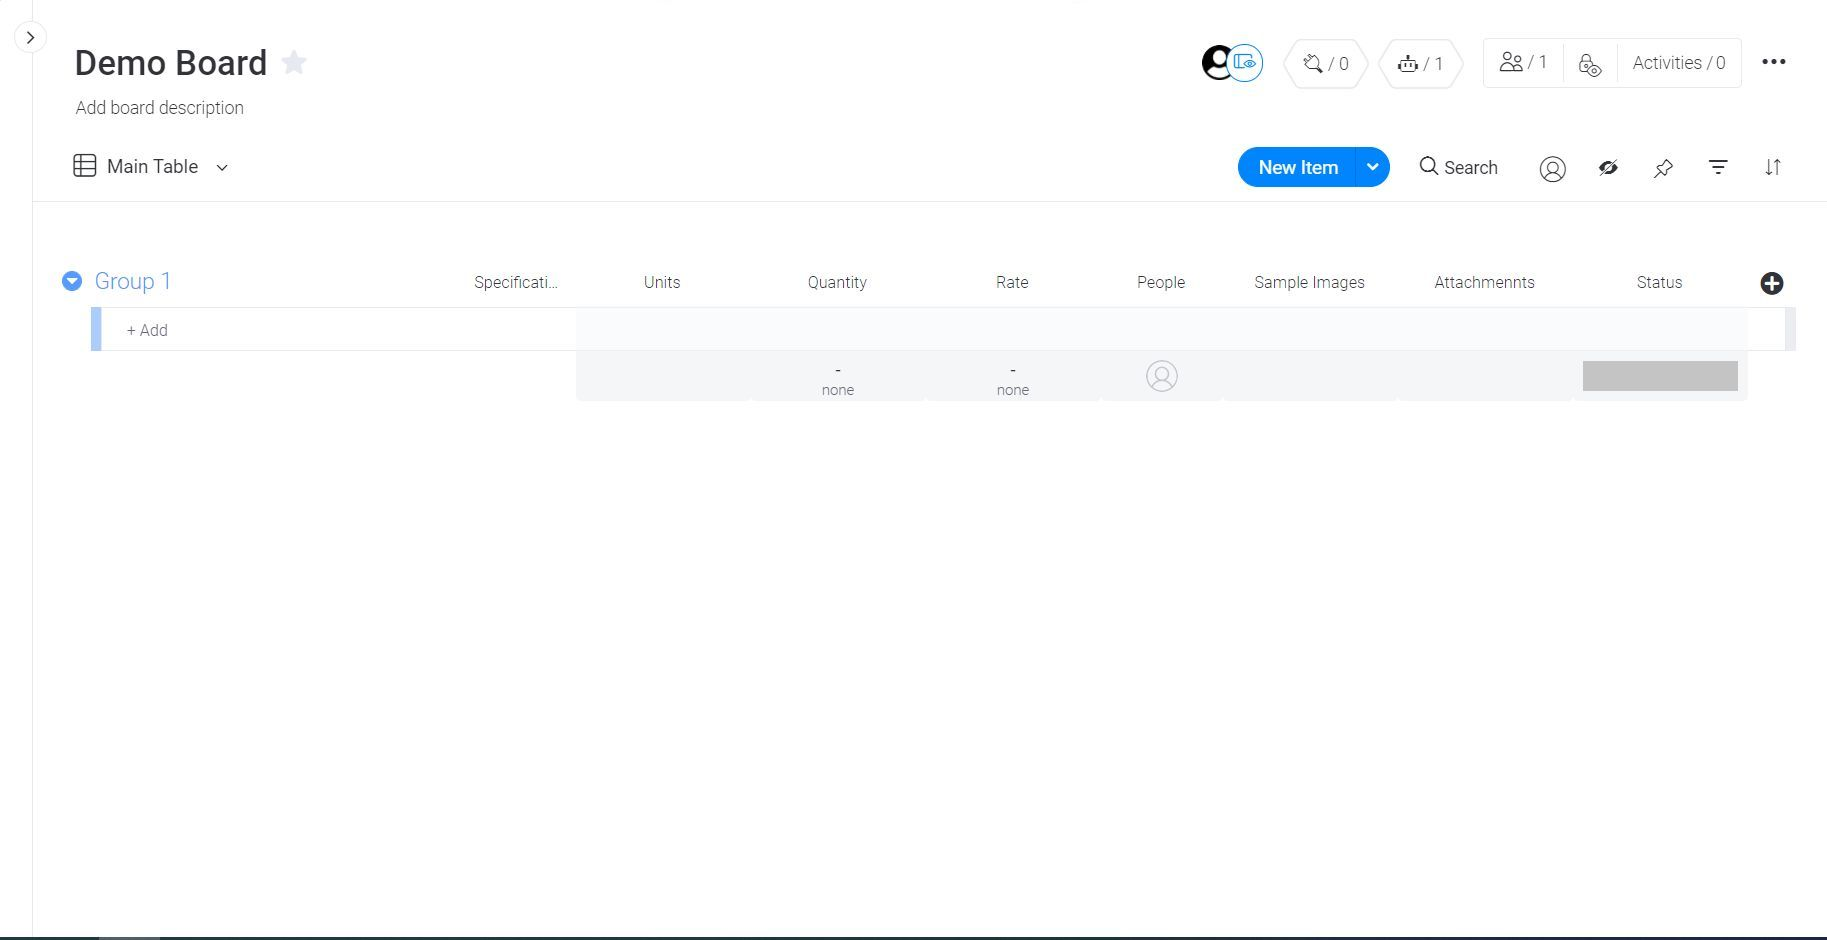
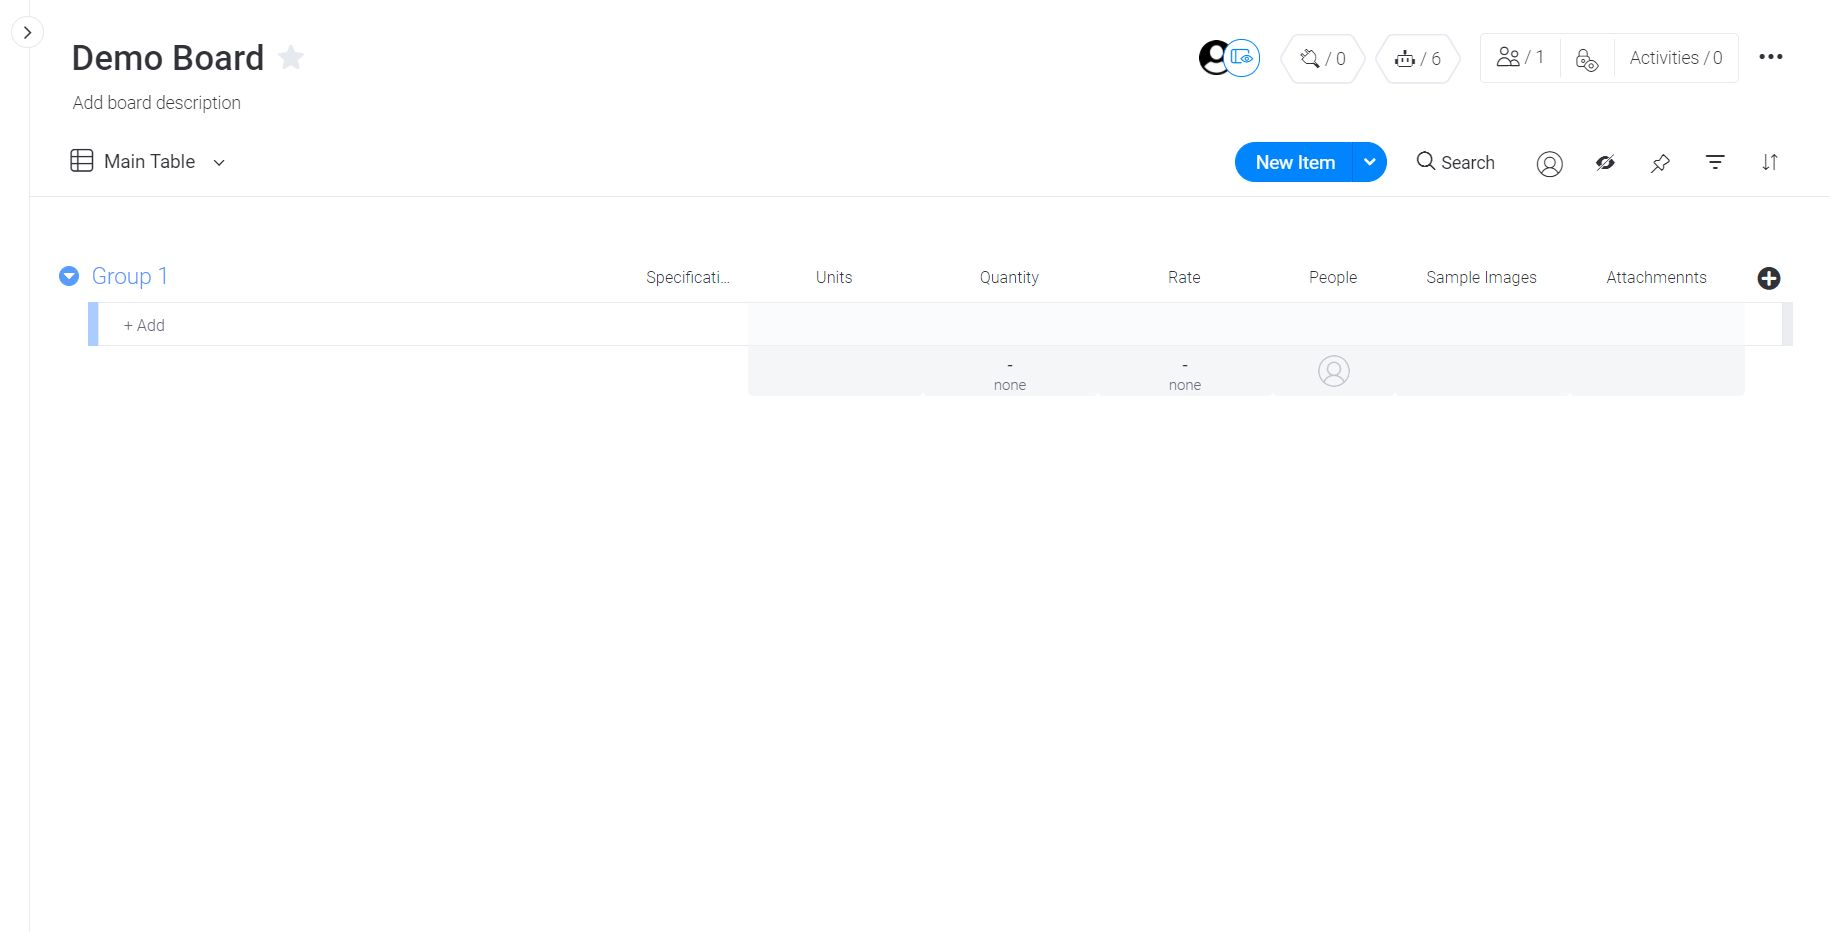
fix the board setup issues; add guide to setup board

diff --git a/src/components/MondayRequestBoardView.vue b/src/components/MondayRequestBoardView.vue
@@ -33,10 +33,6 @@
       <span style="flex: 1">
       </span>
       <span>
-        <md-tooltip md-delay="300">Learn how to use BidFriday.</md-tooltip>
-        <md-button target="_blank" href="/monday/setup-your-board">HELP</md-button>
-      </span>
-      <span>
         <md-tooltip md-delay="300">Connect your accounts to sync and share your requests and bids.</md-tooltip>
         <md-button target="_blank" :href="'https://auth.monday.com/oauth2/authorize?client_id=74f5d4a266dec72194a44f947d25ce70&redirect_uri=' + redirectUrl + '/monday/connect'">CONNECT</md-button>
       </span>
@@ -48,11 +44,16 @@
 
 
     <div v-if="hasMondayConnected" style="padding: 8px;">
+
+      <div v-if="tenderLineItems.length < 1">
+        <span class="md-title" style="color: #CCCCCC">No items on your board yet.</span>
+      </div>
+
+      <div v-else>
       <!-- Tender Items -->
       <div v-if="activeTab === 'tender'">
         <md-table>
           <md-table-row>
-            <md-table-head>Status</md-table-head>
             <md-table-head>Name</md-table-head>
             <md-table-head>Quantity</md-table-head>
             <md-table-head>Rate</md-table-head>
@@ -64,9 +65,8 @@
           </md-table-row>
 
           <md-table-row v-for="tli in tenderLineItems" :key="tli.id" @click="showBidSlotDetails(tli.bids, tli.tenderLineItem)">
-            <md-table-cell>{{ tli.status }}</md-table-cell>
             <md-table-cell @click="openItemCard(tli.id)">{{ tli.name }}</md-table-cell>
-            <md-table-cell>{{ tli.units }} {{ tli.quantity }}</md-table-cell>
+            <md-table-cell>{{ tli.quantity }} {{ tli.units }}</md-table-cell>
             <md-table-cell>{{ tli.rate | currency }}</md-table-cell>
             <md-table-cell>{{ tli.total | currency }}</md-table-cell>
             <md-table-cell>{{ tli.bids.latestBids ? tli.bids.latestBids.length : '-' }}</md-table-cell>
@@ -172,6 +172,8 @@
         </div>
         
       </div>
+      </div>
+
     </div>
 
     <div v-if="msgTitle !== null">
@@ -278,16 +280,20 @@ export default {
       let queryStr = `query { boards (ids: ${boardId}) { id name columns { id title } items { id name column_values { text value } } } }`;
       res = await this.monday.api(queryStr);
       this.currBoardData = res.data.boards[0];
+      let specsColIdx = this.currBoardData.columns.findIndex(c => c.title.toLowerCase() === 'specifications') - 1;
+      let unitsColIdx = this.currBoardData.columns.findIndex(c => c.title.toLowerCase() === 'units') - 1;
+      let qtyColIdx = this.currBoardData.columns.findIndex(c => c.title.toLowerCase() === 'quantity') - 1;
+      let rateColIdx = this.currBoardData.columns.findIndex(c => c.title.toLowerCase() === 'rate') - 1;
       this.tenderLineItems = this.currBoardData.items.map(row => {
         return {
           row: row,
           id: row.id,
           name: row.name,
-          status: row.column_values[8].text,
-          units: row.column_values[2].text,
-          quantity: row.column_values[1].text,
-          rate: row.column_values[3].text,
-          total: parseFloat(row.column_values[2].text) * parseFloat(row.column_values[3].text),
+          specifications: row.column_values[specsColIdx].text,
+          units: row.column_values[unitsColIdx].text,
+          quantity: row.column_values[qtyColIdx].text,
+          rate: row.column_values[rateColIdx].text,
+          total: parseFloat(row.column_values[qtyColIdx].text) * parseFloat(row.column_values[rateColIdx].text),
           bids: {},
           tenderLineItem: {}
         }

diff --git a/server/api.js b/server/api.js
@@ -126,6 +126,13 @@ router.post('/create-or-update-tender', [addUserToReq, authorizeUser], async (re
     tender = await tender.save();
   }
 
+  if (boardInfo.columns.length < 1) return res.json(tender);
+
+  let specsColIdx = boardInfo.columns.findIndex(c => c.title.toLowerCase() === 'specifications') - 1;
+  let unitsColIdx = boardInfo.columns.findIndex(c => c.title.toLowerCase() === 'units') - 1;
+  let qtyColIdx = boardInfo.columns.findIndex(c => c.title.toLowerCase() === 'quantity') - 1;
+  let rateColIdx = boardInfo.columns.findIndex(c => c.title.toLowerCase() === 'rate') - 1;
+
   // keep check of the existing slots and new ones so that the rest can be marked inactive
   let activeSlots = [];
   
@@ -165,16 +172,14 @@ router.post('/create-or-update-tender', [addUserToReq, authorizeUser], async (re
     let bidfridayUnits = latestTenderItemInSlot.units;
     let bidfridayQuantity = latestTenderItemInSlot.quantity;
     let bidfridayRate = latestTenderItemInSlot.rate;
-    let bidfridayStatus = latestTenderItemInSlot.status;
     let bidfridayImageData = latestTenderItemInSlot.sampleImages;
     let bidfridayAttachmentData = latestTenderItemInSlot.attachments;
 
     let mondayName = lineItem.name;
-    let mondaySpecifications = lineItem.column_values[0].text;
-    let mondayUnits = lineItem.column_values[1].text;
-    let mondayQuantity = parseFloat(lineItem.column_values[2].text);
-    let mondayRate = parseFloat(lineItem.column_values[3].text);
-    let mondayStatus = lineItem.column_values[8].text;
+    let mondaySpecifications = lineItem.column_values[specsColIdx].text;
+    let mondayUnits = lineItem.column_values[unitsColIdx].text;
+    let mondayQuantity = parseFloat(lineItem.column_values[qtyColIdx].text);
+    let mondayRate = parseFloat(lineItem.column_values[rateColIdx].text);
     let mondayImageData = JSON.stringify(lineItem.column_values[6]);
     let mondayAttachmentData = JSON.stringify(lineItem.column_values[7]);
 
@@ -184,7 +189,6 @@ router.post('/create-or-update-tender', [addUserToReq, authorizeUser], async (re
       || (bidfridayUnits !== mondayUnits)
       || (bidfridayQuantity !== mondayQuantity)
       || (bidfridayRate !== mondayRate)
-      || (bidfridayStatus !== mondayStatus)
       || (bidfridayImageData !== mondayImageData)
       || (bidfridayAttachmentData !== mondayAttachmentData);
 
@@ -196,11 +200,11 @@ router.post('/create-or-update-tender', [addUserToReq, authorizeUser], async (re
         description: "",
         specifications: mondaySpecifications,
         units: mondayUnits,
-        quantity: mondayQuantity,
-        rate: isNaN(mondayRate) ? -1 : mondayRate,
+        quantity: isNaN(mondayQuantity) ? 0 : mondayQuantity,
+        rate: isNaN(mondayRate) ? 0 : mondayRate,
         sampleImages: mondayImageData,
         attachments: mondayAttachmentData,
-        status: mondayStatus,
+        status: "",
         createdBy: user
       });
       latestTenderItemInSlot = await latestTenderItemInSlot.save();

diff --git a/src/components/MondaySetup.vue b/src/components/MondaySetup.vue
@@ -3,6 +3,8 @@
     <div class="md-layout">
       <div class="md-layout-item md-large-size-60 md-small-size-100" style="padding: 8px;">
 
+
+
         
         <h2>Setting Up for BidFriday</h2>
         <p>
@@ -11,6 +13,7 @@
           Make sure your follow these steps <b>before</b> adding the BidFriday component to your board.
         </p>
 
+        <iframe width="400" height="600" src="https://www.youtube.com/embed/eJDiIw5c3Ww" frameborder="0" allow="accelerometer; autoplay; encrypted-media; gyroscope; picture-in-picture" allowfullscreen></iframe>
 
         <hr />
         
@@ -44,7 +47,9 @@
 
         <h3>Add columns necessary for BidFriday</h3>
         <p>
-          Add the following columns of the specified type in the same order.
+          Add the following columns of the specified type.
+          <br />
+          The titles must match exactly as shown.
         </p>
         <ul>
           <li>Name(default)</li>
@@ -66,13 +71,27 @@
         <hr />
         
 
+        <h3>Install BidFriday on your Monday Account</h3>
+        <p>
+          To start using BidFriday add it from the Monday market-place to your Monday account.
+          Here's a <a href="https://auth.monday.com/oauth2/authorize?client_id=74f5d4a266dec72194a44f947d25ce70&response_type=install" target="_blank">shortcut to get to the app</a>.
+        </p>
+        <img src="/imgs/08.jpg" />
+        <p class="md-caption">Add BidFriday to your account.</p>
+
+
+        <hr />
+        
+
         <h3>Add BidFriday view</h3>
         <p>
           Now we are ready. You can go ahead and add the BidFriday view from the marketplace.<br />
           Here's a <a href="https://auth.monday.com/oauth2/authorize?client_id=74f5d4a266dec72194a44f947d25ce70&response_type=install" target="_blank">shortcut to get to the app</a>.
         </p>
-        <img src="/imgs/08.jpg" />
-        <p class="md-caption">How to find marketplace view.</p>
+        <img src="/imgs/09.jpg" />
+        <p class="md-caption">Find the app.</p>
+        <img src="/imgs/10.jpg" />
+        <p class="md-caption">Add it to your board.</p>
 
 
         <hr />
